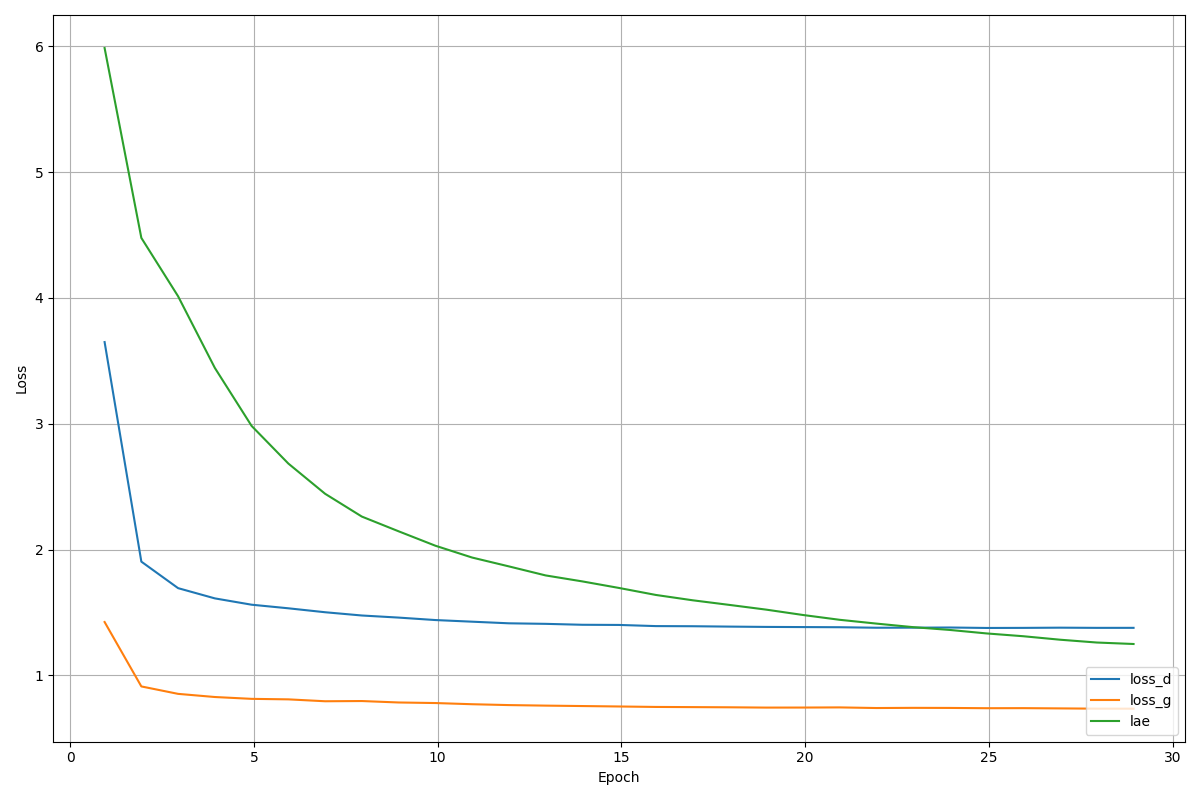
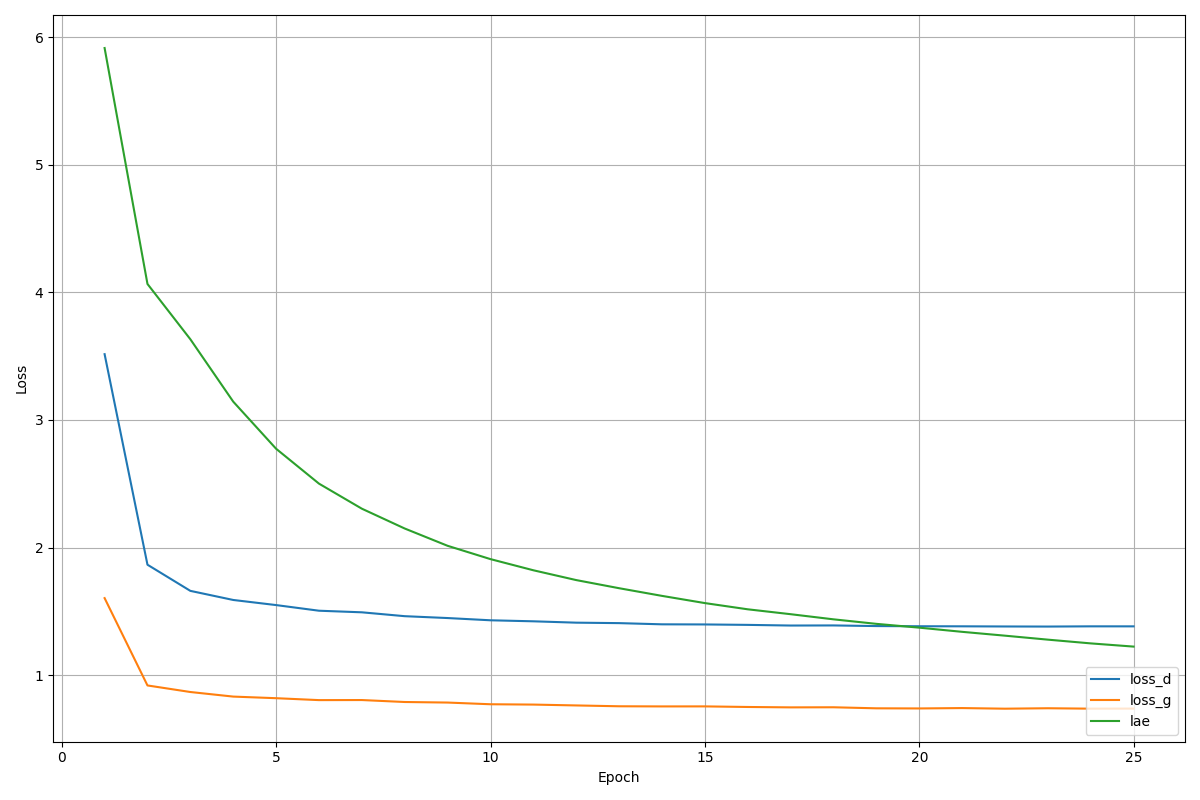
error occured in celebaHQ dataloading - deleted previous celeba-hq tfrecords generated from celeba-scripts and generated that using celeba-HQ data_prep script

diff --git a/dataset_preparation/prepare_celeba_hq_tfrecords.py b/dataset_preparation/prepare_celeba_hq_tfrecords.py
@@ -31,7 +31,7 @@ def prepare_celeba(cfg, logger, train=True):
     # The official way of generating CelebA-HQ can be challenging.
     # Please refer to this page: https://github.com/suvojit-0x55aa/celebA-HQ-dataset-download
     # You can get pre-generated dataset from: https://drive.google.com/drive/folders/11Vz0fqHS2rXDb5pprgTjpD7S2BAJhi1P
-    source_path = '/home/udith/data/datasets/celeba-hq/data1024x1024'
+    source_path = '/home/udith/data/datasets/celeba-hq/data256x256'
     for filename in tqdm.tqdm(os.listdir(source_path)):
         images.append((int(filename[:-4]), filename))
 

diff --git a/download_celebaHQ_DATASET.py b/download_celebaHQ_DATASET.py
@@ -2,7 +2,10 @@
 from google_drive_downloader import GoogleDriveDownloader as gdd
 import os
 
-gdd.download_file_from_google_drive(file_id='1-LFFkFKNuyBO1sjkM4t_AArIXr3JAOyl',
+celebahq256='1O89DVCoWsMhrIF3G8-wMOJ0h7LukmMdP'
+celebahq1024= '1-LFFkFKNuyBO1sjkM4t_AArIXr3JAOyl'
+
+gdd.download_file_from_google_drive(file_id=celebahq256,
                                     dest_path='/home/udith/data/datasets/celeba-hq/images.zip',
                                     unzip=True)
 

diff --git a/model_with_newLoss.py b/model_with_newLoss.py
@@ -261,5 +261,3 @@ class GenModel(nn.Module):
     def forward(self, x):
         return self.generate(self.layer_count-1, 1.0, z=x)
 
-
-
